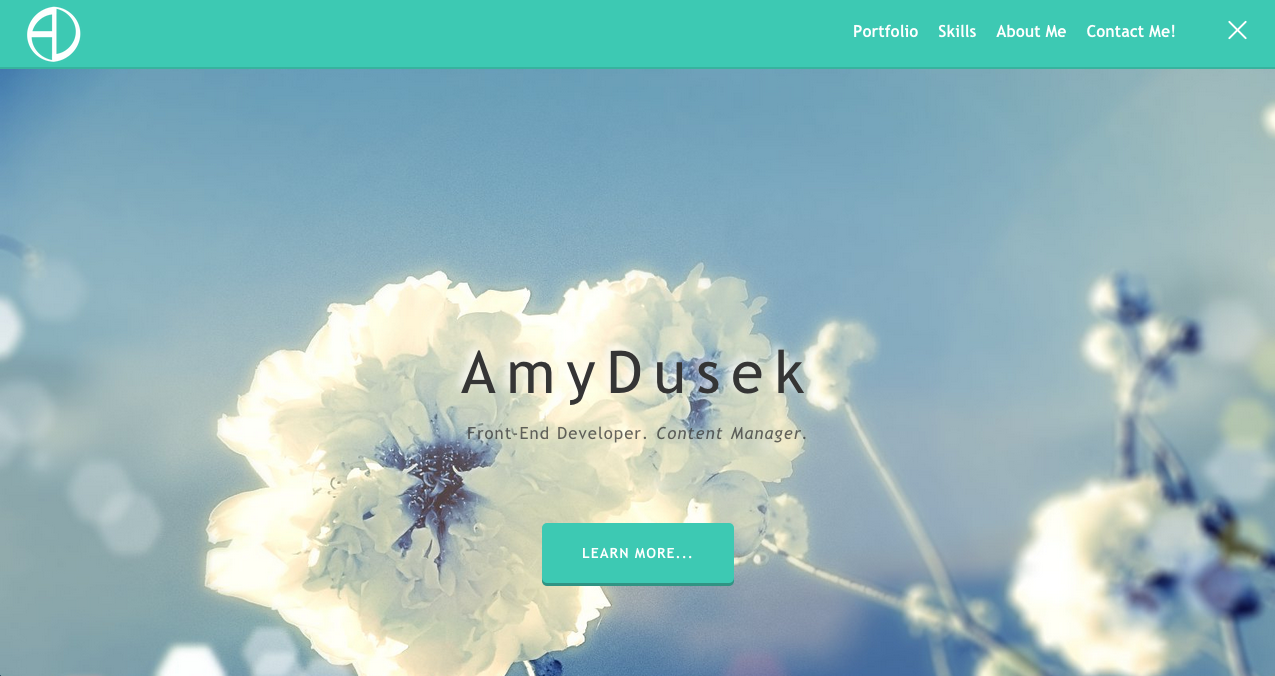
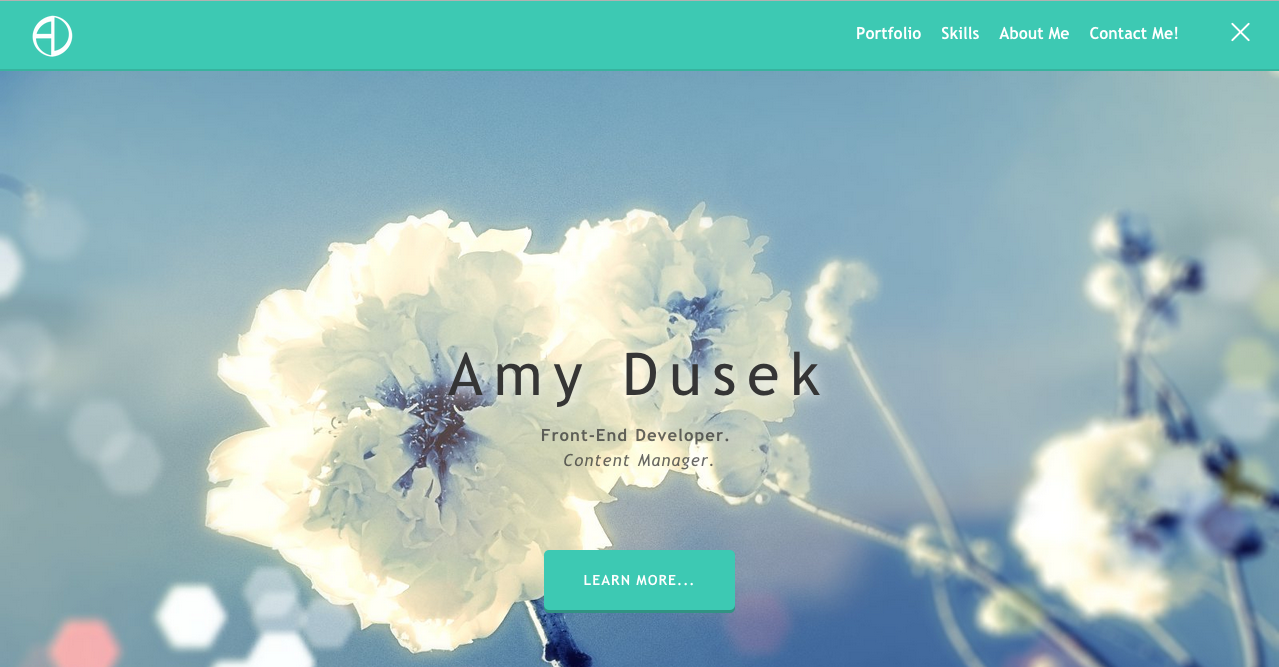
Changed paddings and contact info

diff --git a/index.html b/index.html
@@ -357,11 +357,7 @@
               <div class="col-lg-12 text-center">
                 <h2 class="section-heading">About</h2>
                 <h3 class="section-subheading text-muted"><em>The road has been long, and I still have a ways to go, but I know whichever direction I choose,
-<<<<<<< HEAD
                   <br  /> 
-=======
-                <br  /> 
->>>>>>> addingQuotes
                 it will lead me to where I need to go.</em></h3>
               </div>
             </div>
@@ -507,13 +503,13 @@
               <div class="col-md-4">
                 <div class="light-box box-hover">
                   <h2><i class="fa fa-map-marker"></i><span>Location</span></h2>
-                  <p>Miami Beach, FL</p>
+                  <p><a href="http://goo.gl/wvBORK" target="_blank">Miami Beach, FL</a></p>
                 </div>
               </div>
               <div class="col-md-4">
                 <div class="light-box box-hover">
                   <h2><i class="fa fa-mobile"></i><span>Phone</span></h2>
-                  <p>248.535.5820</p>
+                  <p><a href="tel:305-928-7728">305.928.7728</a></p>
                 </div>
               </div>
               <div class="col-md-4">

diff --git a/css/flexslider.css b/css/flexslider.css
@@ -80,7 +80,7 @@ html[xmlns] .slides {display: block;}
 /* Control Nav */
 .flex-control-nav {width: 100%; position: relative; text-align: center;}
 .flex-control-nav li {margin: 0 6px; display: inline-block; zoom: 1; *display: inline;}
-.flex-control-paging li a {width: 13px; height: 13px; display: block; background: #5c696a; background: #fff; cursor: pointer; text-indent: -9999px; -webkit-border-radius: 20px; -moz-border-radius: 20px; -o-border-radius: 20px; border-radius: 20px; border: 3px solid #c9cbca; }
+.flex-control-paging li a {width: 25px; height: 13px; display: block; background: #5c696a; background: #fff; cursor: pointer; text-indent: -9999px; -webkit-border-radius: 20px; -moz-border-radius: 20px; -o-border-radius: 20px; border-radius: 20px; border: 3px solid #c9cbca; }
 .flex-control-paging li a:hover { background: #fff; background: #212024); }
 .flex-control-paging li a.flex-active { background: #fff; background: #212024; cursor: default; }
 

diff --git a/css/styles.css b/css/styles.css
@@ -346,7 +346,7 @@ Waypoints
 /*.delay-1halfs { animation-delay: 1.5s; -webkit-animation-delay: 1.5s; }
 .delay-2s { animation-delay: 2s; -webkit-animation-delay: 2s; }
 .delay-2halfs { animation-delay: 2.5s; -webkit-animation-delay: 2.5s; }*/
-.wp3 { background: url('../img/iphone-bg-1.png') no-repeat center center;/* background-position: 200px 10px; */height: 100%; }
+.wp3 { background: url('../img/iphone-bg-4.png') no-repeat center center;/* background-position: 200px 10px; */height: 100%; }
 /* ==========================================================================
 Timeline and Timeline Queries
 ========================================================================== */
